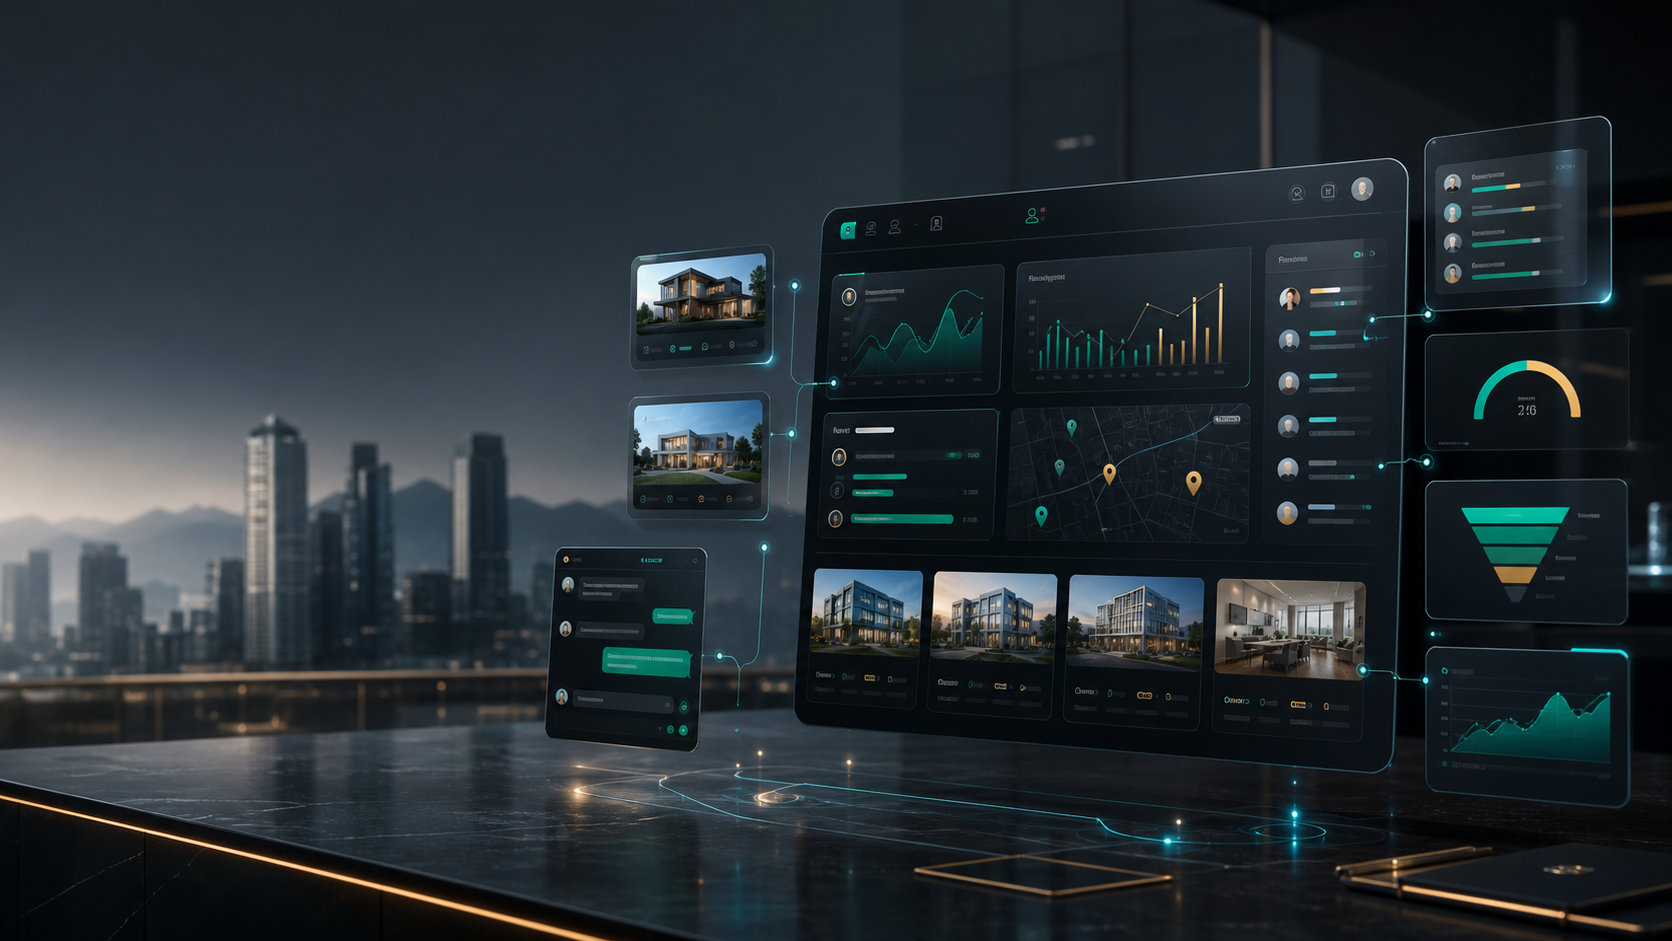
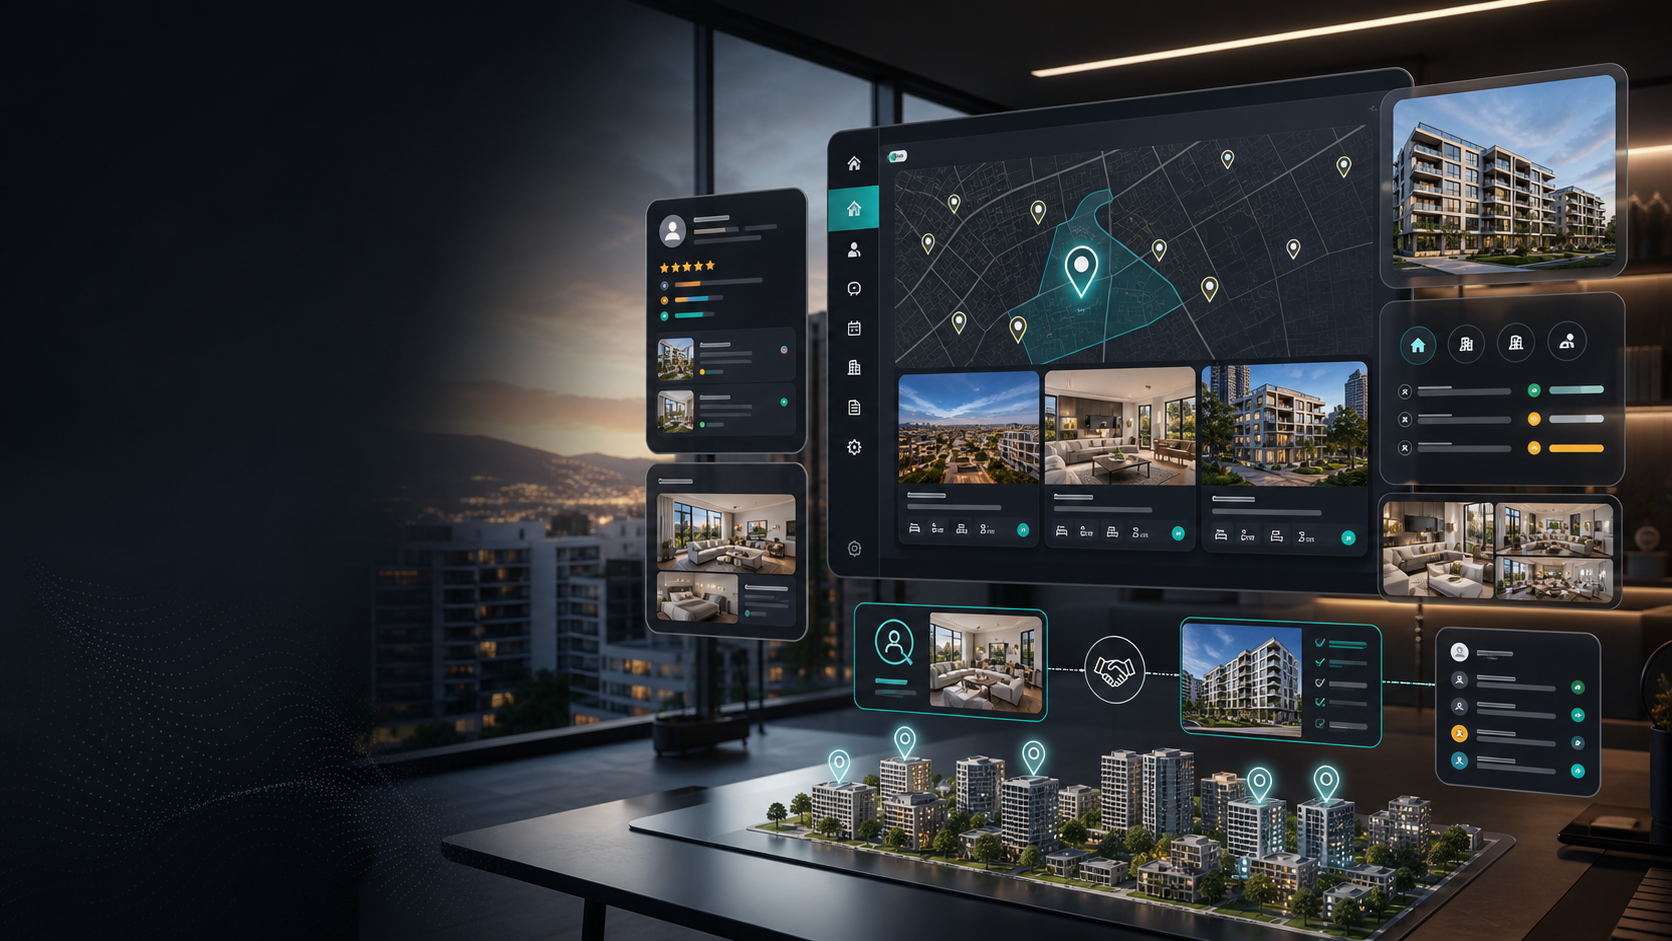
Add files via upload

diff --git a/index.html b/index.html
@@ -41,8 +41,8 @@
           <p class="eyebrow">SaaS inmobiliario con inteligencia artificial</p>
           <h1>BrokerMind</h1>
           <p class="hero-lede">
-            La inteligencia operativa para inmobiliarias y brokers que quieren responder mas rapido,
-            elevar la calidad de sus oportunidades y operar con control comercial real.
+            La inteligencia operativa y de matchmaking para inmobiliarias y brokers que quieren
+            responder mas rapido, conectar demanda con inventario y operar con control comercial real.
           </p>
           <div class="hero-actions" id="demo">
             <a class="button primary" href="#contacto" data-open-form>
@@ -61,7 +61,7 @@
             </div>
             <div>
               <dt>1 lugar</dt>
-              <dd>leads, inmuebles y seguimiento</dd>
+              <dd>leads, inmuebles y matching</dd>
             </div>
           </dl>
         </div>
@@ -77,7 +77,7 @@
       <section class="section problem-section" id="oportunidad">
         <div class="section-copy">
           <p class="eyebrow">La oportunidad</p>
-          <h2>Convierte cada lead, inmueble y conversacion en una oportunidad comercial gestionable.</h2>
+          <h2>Convierte cada lead, inmueble y requisicion en una oportunidad comercial gestionable.</h2>
           <p>
             BrokerMind integra la atencion, el inventario, las requisiciones y el seguimiento en
             una operacion comercial ordenada, medible y preparada para crecer.
@@ -110,7 +110,7 @@
       <section class="section platform-section" id="plataforma">
         <div class="section-heading">
           <p class="eyebrow">La plataforma</p>
-          <h2>Una plataforma de inteligencia operativa creada para el ritmo real del negocio inmobiliario.</h2>
+          <h2>Una plataforma de inteligencia operativa y matchmaking creada para el ritmo real del negocio inmobiliario.</h2>
         </div>
         <div class="platform-layout">
           <div class="product-panel">
@@ -217,47 +217,59 @@
 
       <section class="section pricing-section" id="planes">
         <div class="section-heading">
-          <p class="eyebrow">Planes de validacion</p>
-          <h2>Empieza con un piloto controlado y escala cuando el valor sea evidente.</h2>
+          <p class="eyebrow">Planes recalculados</p>
+          <h2>Planes diseñados por volumen, uso de IA y margen sostenible.</h2>
         </div>
         <div class="pricing-grid">
           <article class="price-card">
-            <p class="plan-kicker">Broker independiente</p>
-            <h3>Starter</h3>
-            <p class="price">$850.000 <span>/ mes</span></p>
+            <p class="plan-kicker">Entrada controlada</p>
+            <h3>Starter Controlado</h3>
+            <p class="price">$890.000 <span>/ mes</span></p>
             <ul>
               <li>1 usuario incluido</li>
-              <li>Atencion inicial por WhatsApp</li>
-              <li>Calificacion de leads Tier 3</li>
-              <li>Inventario y seguimiento basico</li>
+              <li>600 interacciones IA incluidas</li>
+              <li>Atencion y calificacion inicial</li>
+              <li>Inventario y seguimiento base</li>
             </ul>
           </article>
           <article class="price-card featured">
-            <p class="plan-kicker">Equipo comercial</p>
-            <h3>Growth</h3>
-            <p class="price">$1.750.000 <span>/ mes</span></p>
+            <p class="plan-kicker">Broker productor</p>
+            <h3>Pro Broker</h3>
+            <p class="price">$1.590.000 <span>/ mes</span></p>
             <ul>
-              <li>Hasta 3 usuarios</li>
-              <li>Mayor capacidad de leads</li>
-              <li>Calificacion Tier 2</li>
-              <li>Reportes y seguimiento comercial</li>
+              <li>1.200 interacciones IA incluidas</li>
+              <li>Lead scoring y requisiciones</li>
+              <li>Matching con inventario propio</li>
+              <li>Reportes de actividad comercial</li>
             </ul>
           </article>
           <article class="price-card">
-            <p class="plan-kicker">Inmobiliaria pequena</p>
-            <h3>Scale</h3>
-            <p class="price">$2.650.000 <span>/ mes</span></p>
+            <p class="plan-kicker">Equipo inmobiliario</p>
+            <h3>Team</h3>
+            <p class="price">$4.200.000 <span>/ mes</span></p>
             <ul>
-              <li>Hasta 5 usuarios</li>
-              <li>Exposicion Tier 1</li>
-              <li>Matching y reportes por equipo</li>
-              <li>Soporte prioritario de implementacion</li>
+              <li>3.300 interacciones IA incluidas</li>
+              <li>Multiusuario para equipos comerciales</li>
+              <li>Asignacion, seguimiento y reportes</li>
+              <li>Matching y tablero de productividad</li>
+            </ul>
+          </article>
+          <article class="price-card">
+            <p class="plan-kicker">Mayor volumen</p>
+            <h3>Scale</h3>
+            <p class="price">$7.500.000 <span>/ mes</span></p>
+            <ul>
+              <li>6.000 interacciones IA incluidas</li>
+              <li>Operaciones con alto volumen de leads</li>
+              <li>Matchmaking entre brokers y equipos</li>
+              <li>Soporte prioritario e implementacion guiada</li>
             </ul>
           </article>
         </div>
         <p class="pricing-note">
-          Los planes son una hipotesis comercial inicial. Cada implementacion define limites de leads,
-          interacciones, usuarios e inmuebles para asegurar calidad y margen sostenible.
+          Los planes se basan en el modelo recalculado: limites claros de interacciones, control
+          del costo de IA y margen bruto objetivo superior al 60%. Los excedentes y modulos avanzados
+          se definen segun volumen real de leads, usuarios, inmuebles y matches generados.
         </p>
       </section>
 

diff --git a/styles.css b/styles.css
@@ -538,7 +538,7 @@ h1 {
 }
 
 .pricing-grid {
-  grid-template-columns: repeat(3, minmax(0, 1fr));
+  grid-template-columns: repeat(4, minmax(0, 1fr));
 }
 
 .price-card {
@@ -563,7 +563,7 @@ h1 {
 
 .price-card h3 {
   margin-top: 18px;
-  font-size: 2rem;
+  font-size: 1.85rem;
 }
 
 .price {